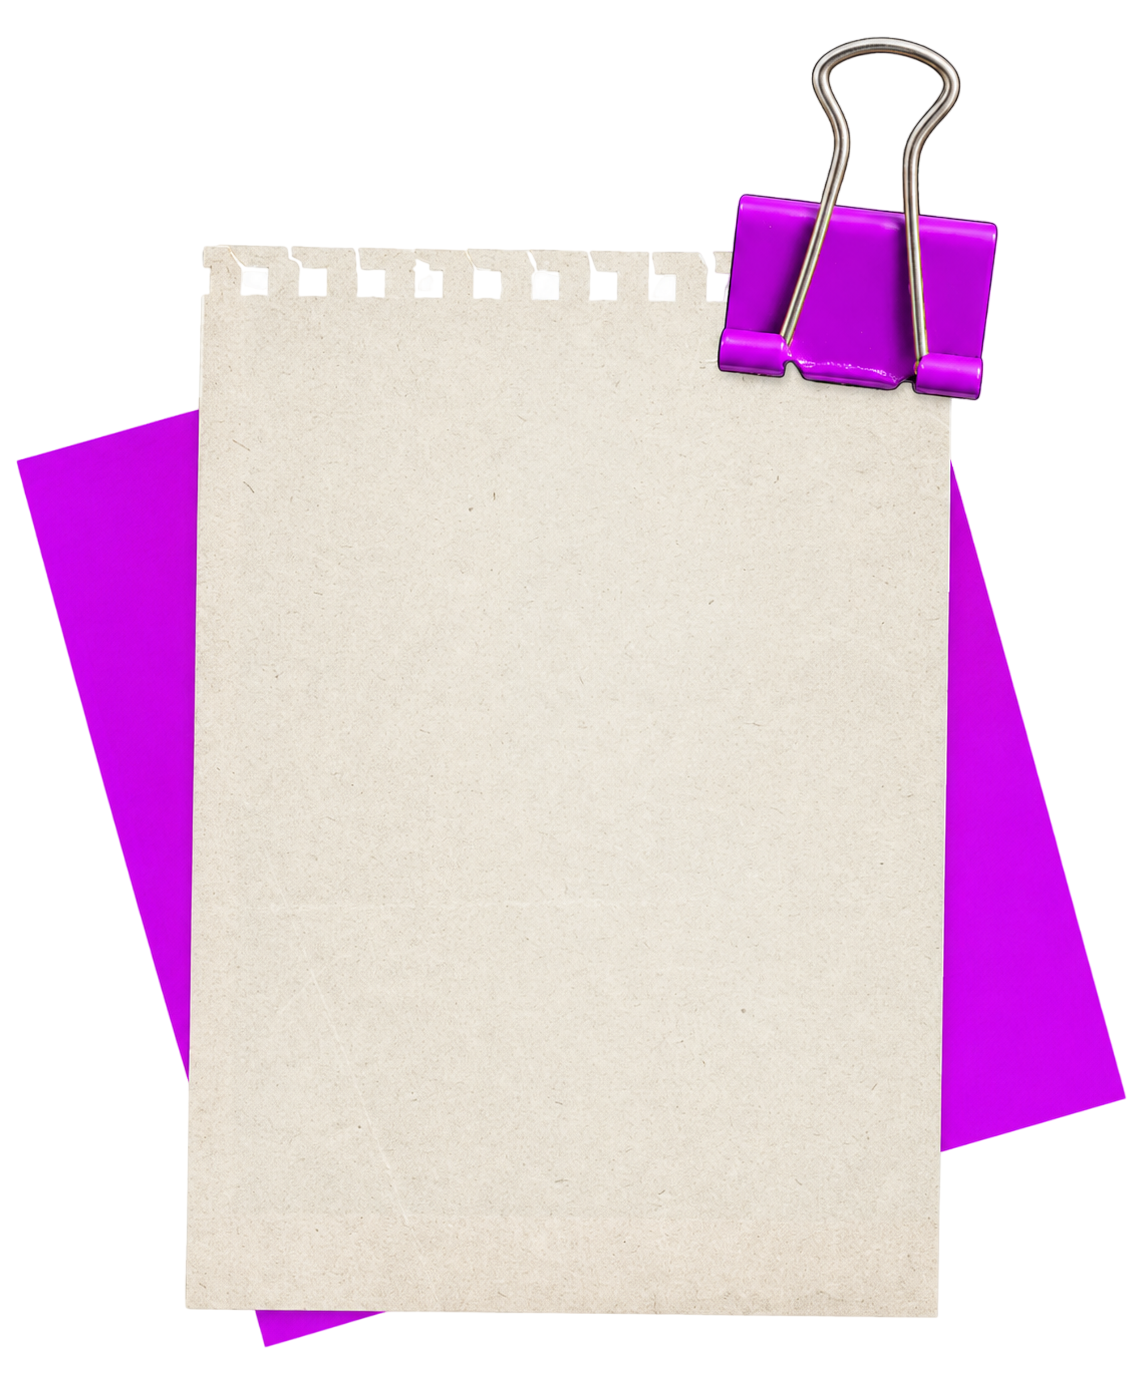
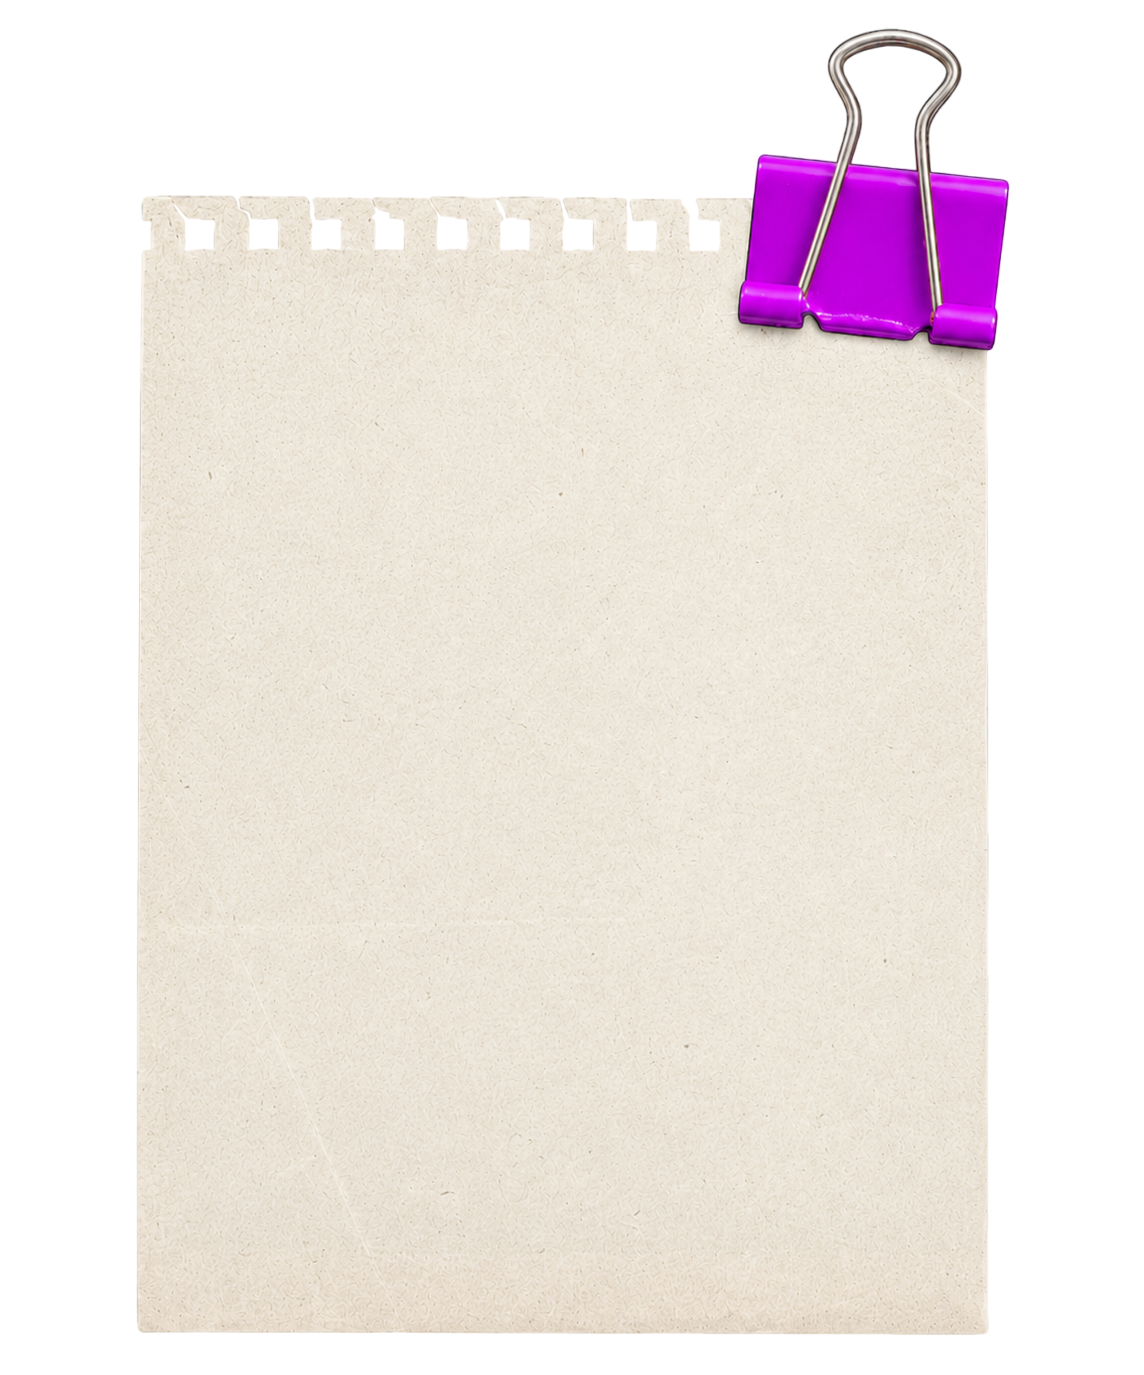
feat: add stationary CSS purple background to work notes

Changed region(s): [[0.0, 0.0, 0.9825, 0.9775]]

diff --git a/src/components/retro/WorkNote.tsx b/src/components/retro/WorkNote.tsx
@@ -15,16 +15,21 @@ export function WorkNote({
   description
 }: WorkNoteProps) {
   return (
-    <div className="relative w-[85%] md:w-full max-w-[450px] cursor-pointer transition-all duration-300 hover:-translate-y-[8px] hover:scale-[1.03] drop-shadow-md hover:drop-shadow-2xl">
-      <Image 
-        src="/work-note.png" 
-        alt={`${company} Note`} 
-        width={600} 
-        height={800} 
-        className="w-full h-auto block"
-        priority
-      />
-      <div className="absolute inset-0 pt-[37%] pr-[16%] pb-[15%] pl-[20%] flex flex-col pointer-events-none text-left overflow-hidden">
+    <div className="relative w-[85%] md:w-full max-w-[450px] cursor-pointer group">
+      {/* Stationary Purple Background Square */}
+      <div className="absolute inset-0 bg-[#c700eb] -rotate-[10deg] scale-[0.95] translate-y-[10px] -translate-x-[15px] shadow-lg rounded-sm z-0 pointer-events-none"></div>
+
+      {/* Animating Paper & Text */}
+      <div className="relative z-10 w-full h-full transition-all duration-300 group-hover:-translate-y-[8px] group-hover:scale-[1.03] drop-shadow-md group-hover:drop-shadow-2xl">
+        <Image 
+          src="/work-note.png" 
+          alt={`${company} Note`} 
+          width={600} 
+          height={800} 
+          className="w-full h-auto block"
+          priority
+        />
+        <div className="absolute inset-0 pt-[37%] pr-[16%] pb-[15%] pl-[20%] flex flex-col pointer-events-none text-left overflow-hidden">
         <div className="flex flex-col gap-[6px] mb-[12px]">
           <h4 className="font-kalam text-[clamp(18px,3.5vw,26px)] font-bold text-[#1f2328] leading-[1.1] m-0">{role}</h4>
           <div className="self-start">
